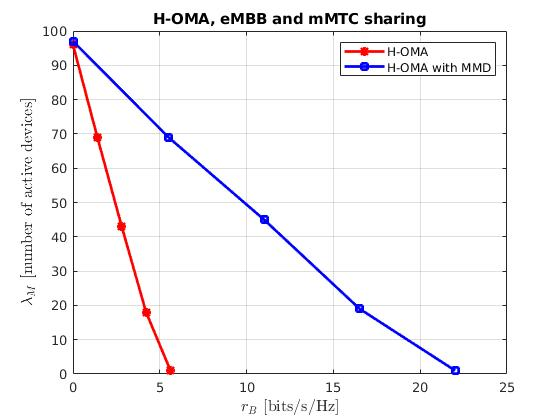
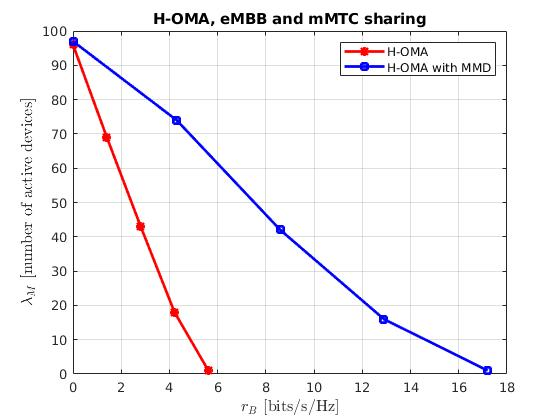
fix mmd homa

diff --git a/homa_mmd.m b/homa_mmd.m
@@ -29,7 +29,7 @@ for main = 1:length(alpha)
     %GBf_tar = SNR_B/(expint(GBf_min/SNR_B)); % Target value of SNR
     
     for t = 1:Fb  
-        tar_den = ((-1)^(t-1))*(nchoosek(Fb,t)*t)*(expint((t*GBf_min)/(-(2^(-1/Fb)*SNR_B)*log(1-eb^(1/Fb)))));
+        tar_den = ((-1)^(t-1))*(nchoosek(Fb,t)*t)*(expint((t*GBf_min)/((2^(-1/Fb)*SNR_B))));
     end
     
     GBf_tar = (2^(-1/Fb)*SNR_B)*log(1-eb^(1/Fb))/tar_den;
